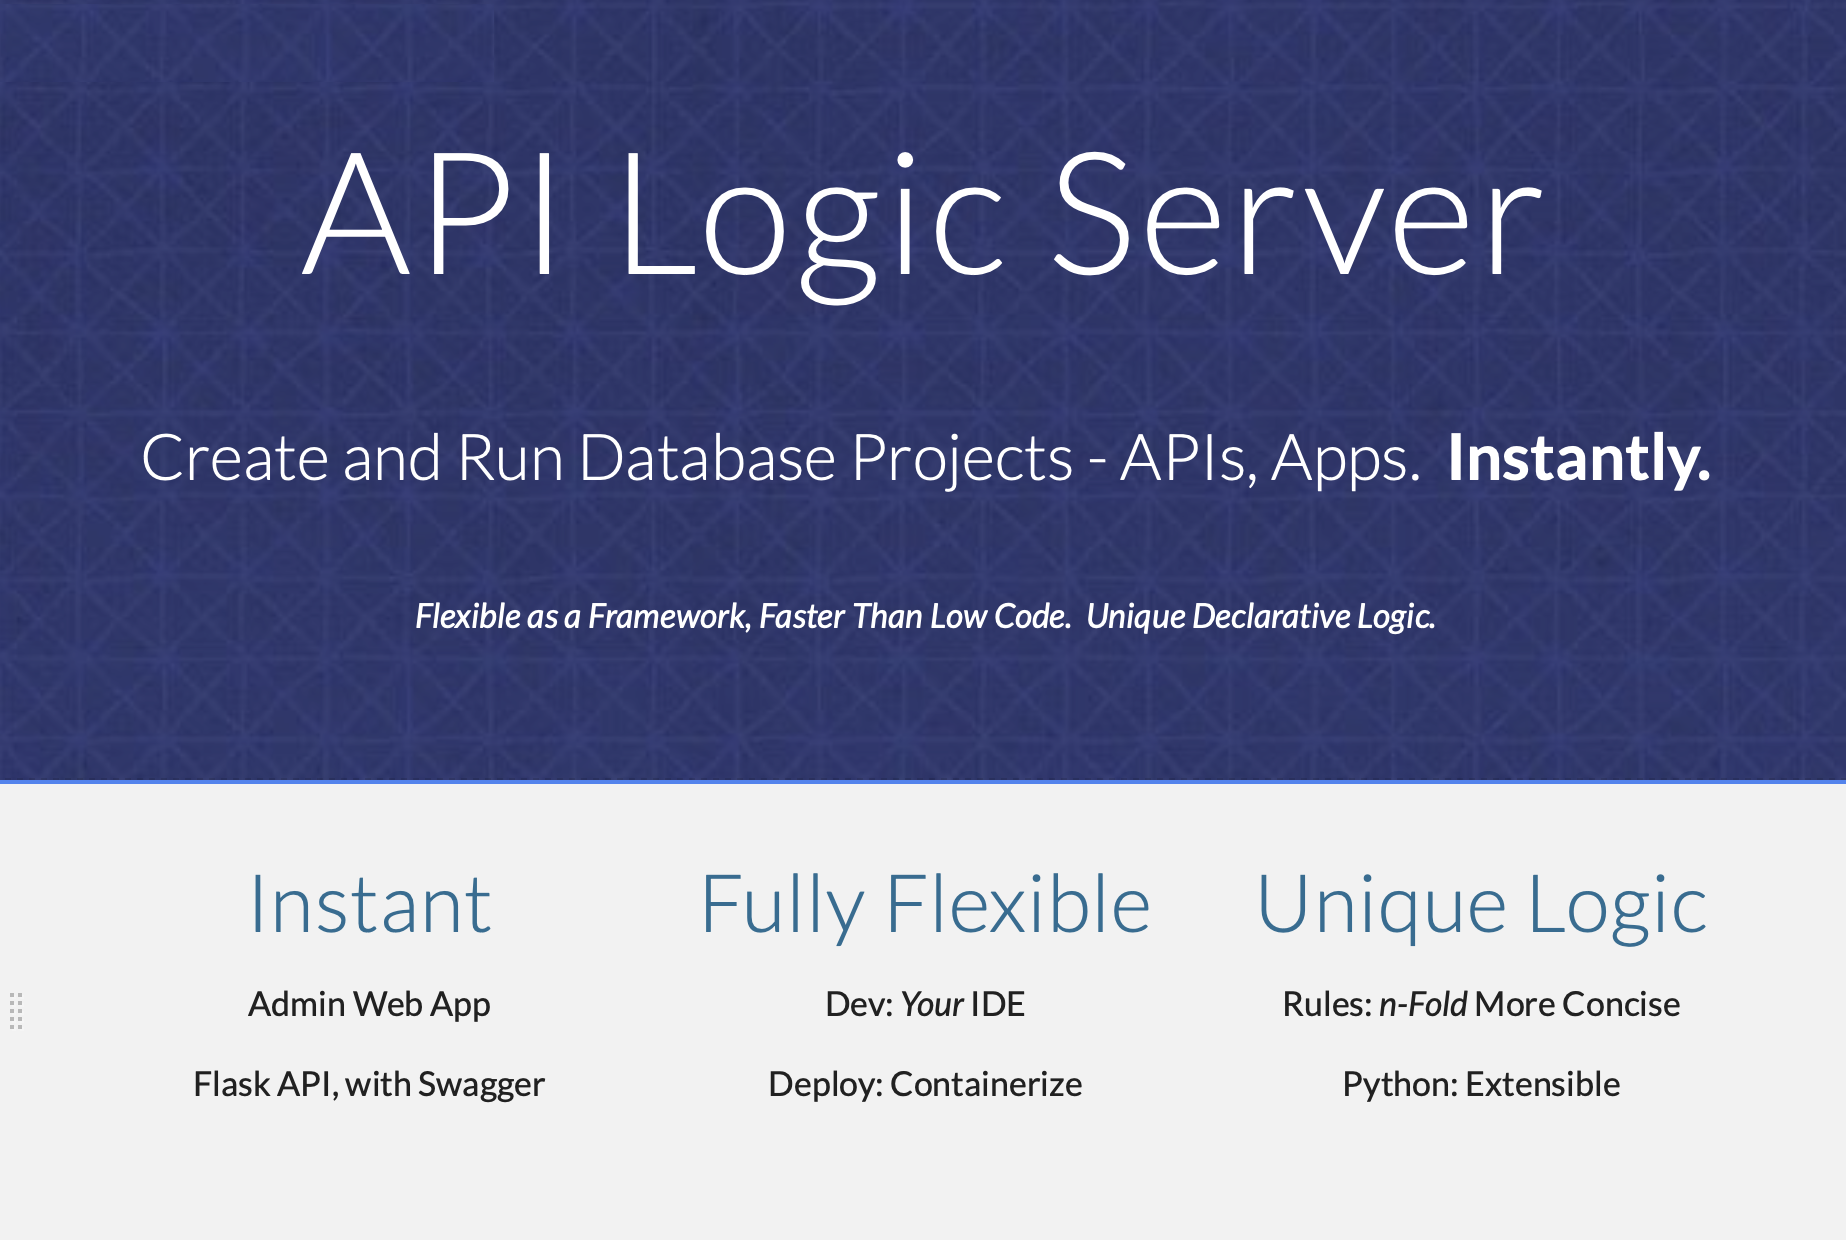
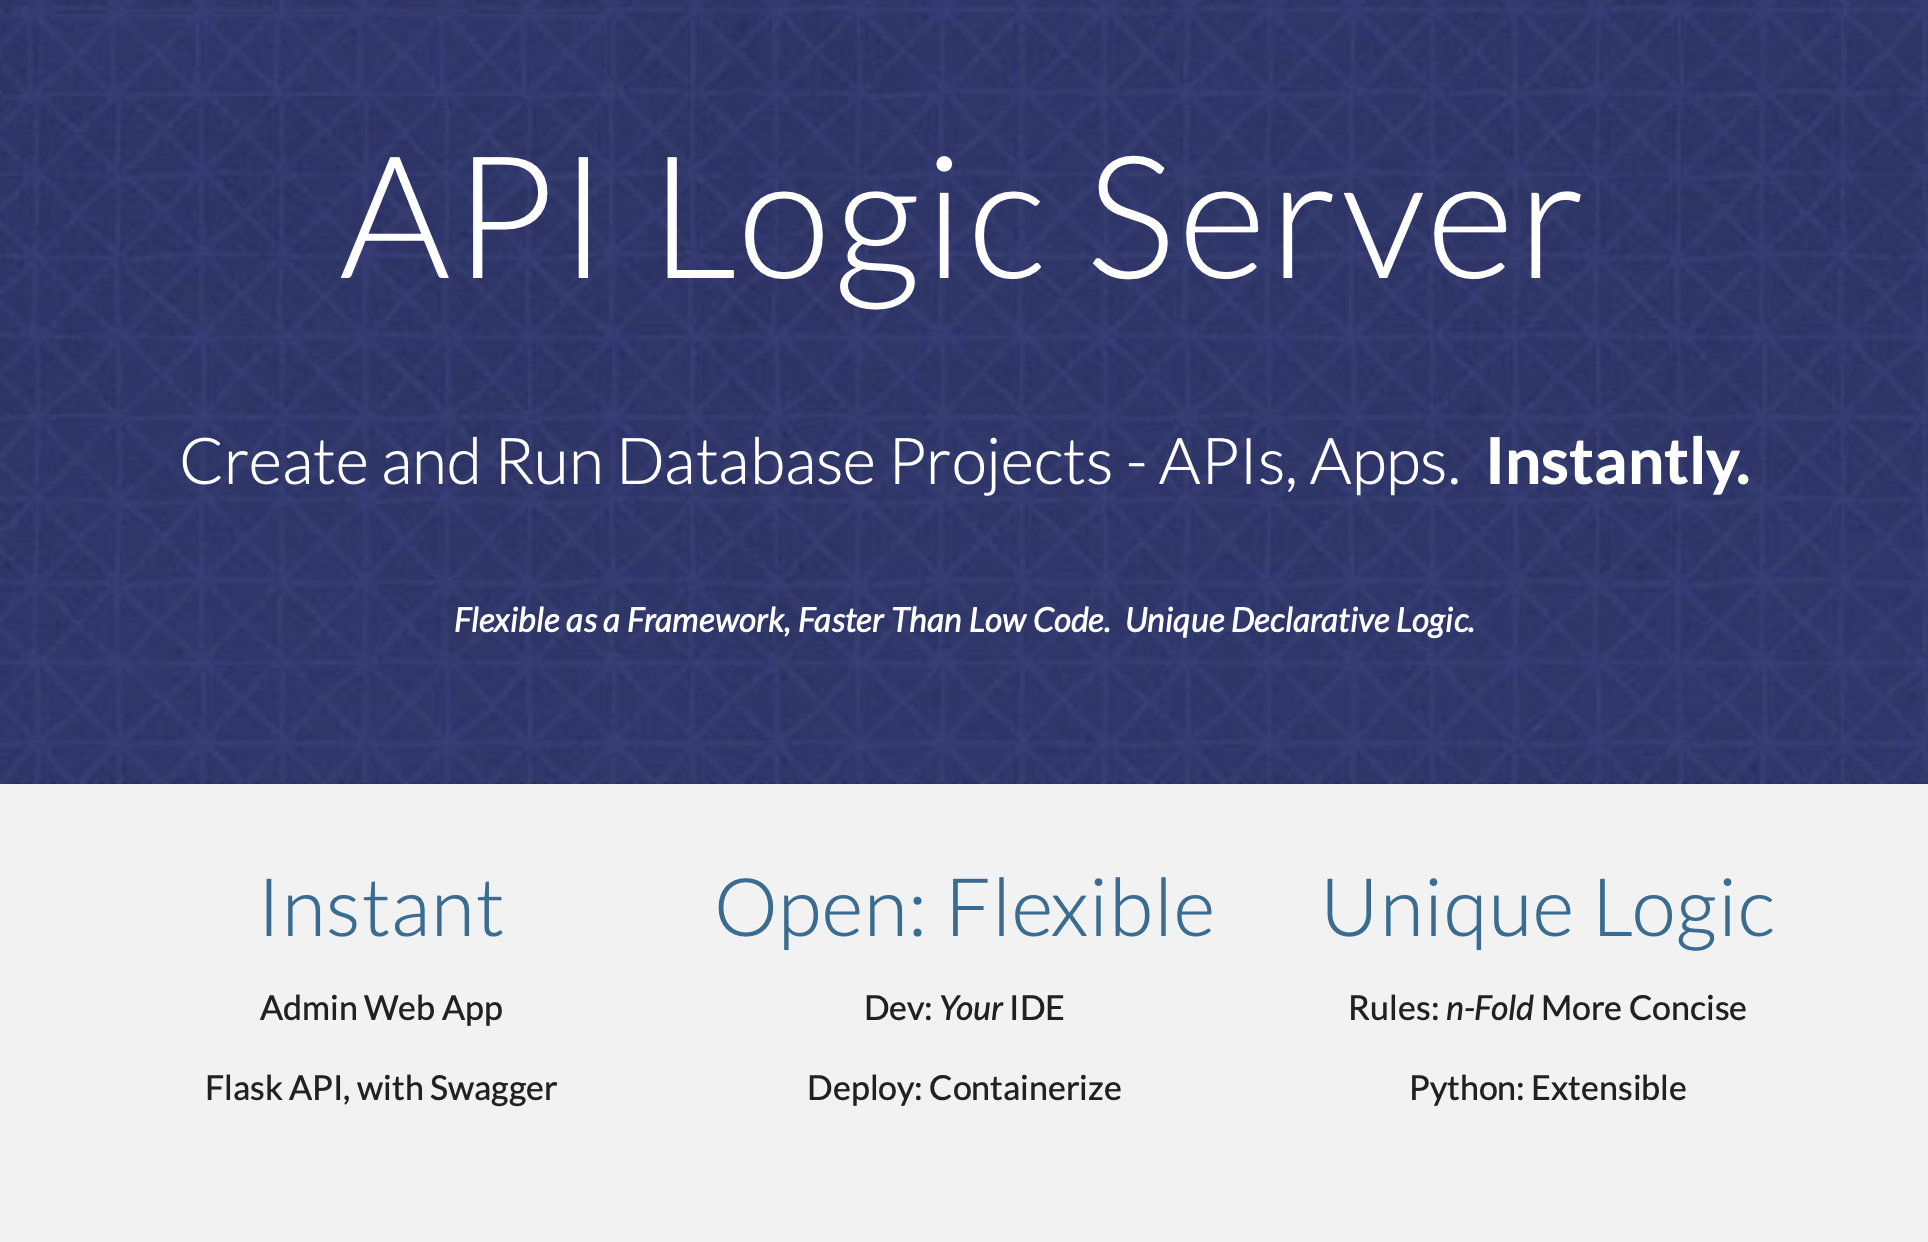
open flexibility

diff --git a/docs/index.md b/docs/index.md
@@ -21,7 +21,7 @@ Description: Instantly Create and Run Database Projects - Flask, APIs, SQLAlchem
         * **an Admin App:** multi-page, multi-table apps -- ready for business user agile collaboration
         * **an API:** end points for each table, with filtering, sorting, pagination and related data access -- ready for custom app dev
 
-    2. **Fully Flexible:** leverage standards for development and deployment:
+    2. **Open Flexibility:** leverage standards for development and deployment:
 
         * Dev: customize and debug with **<span style="background-color:Azure;">standard dev tools</span>**.  Use *your IDE (e.g. <span style="background-color:Azure;">VSCode, PyCharm</span>)*, <span style="background-color:Azure;">Python</span>, and Flask/SQLAlchemy to create new services.  Manage projects with <span style="background-color:Azure;">GitHub</span>.
 
